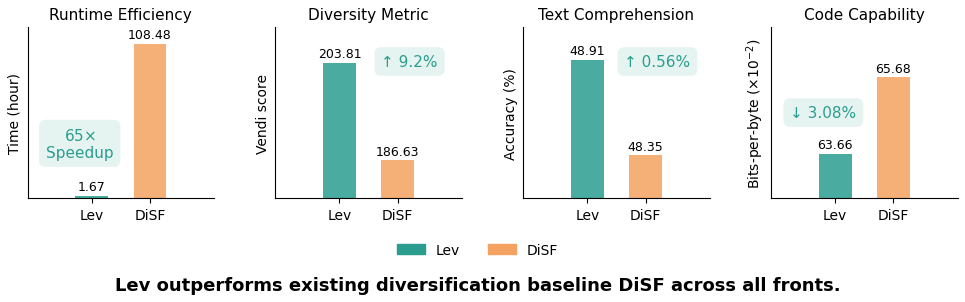
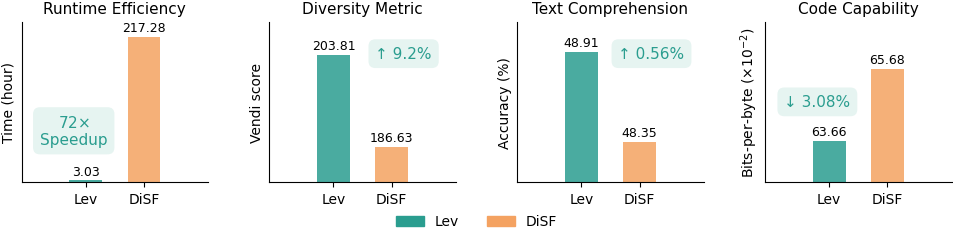
Update results documentation and main figure

diff --git a/README.md b/README.md
@@ -1,6 +1,6 @@
 # Towards Scalable Data Diversification for Language Model Pretraining via Leverage Score Sampling
 
-<h4> |<a href="https://arxiv.org/abs/1111.11111"> 📑 Paper </a> |
+<!-- <h4> |<a href="https://arxiv.org/abs/1111.11111"> 📑 Paper </a> | -->
 
 ## Overview
 
@@ -13,10 +13,10 @@ We propose **Leverage Score Sampling (Lev)**, a scalable scheme that employs lev
 <img src="figures/geointuition7.png" width="65%">
 
 ### Main Results
-- Lev shows superior computational efficiency, enabling scalable diversified sampling. It improves dataset diversity (measured by Vendi score) by 9.2\% while achieving a **65$\times$ runtime speedup** compared to the strong *diversification baseline DiSF*. 
+- Lev shows superior computational efficiency, enabling scalable diversified sampling. It improves dataset diversity (measured by Vendi score) by 9.2\% while achieving a **72$\times$ runtime speedup** compared to the strong *diversification baseline DiSF*. 
 - Moreover, it outperforms existing diversity-based selection methods on downstream performance of the pretrained models. On CommonCrawl (CC) web data subset selection, it improves average accuracy across seven downstream tasks by up to 1.31% over existing baselines. 
 - Crucially, Lev requires no curated quality references, making it uniquely effective for domains where defining quality is inherently ambiguous, e.g., code data: on StarCoderData, it reduces model's bits-per-byte by 3.08% over DiSF. 
-- Using 8 RTX 5090 GPUs that process 8 files in parallel, **selecting 40%** data from **a single CommonCrawl dump (~200B token)** with a step size of 2 requires only about 1.67 hours compared to 108.48 hours of DiSF, confirming a 65$\times$ speedup. With a step size of 8, **Lev consumes only about 35 min** compared to 26.88h of DiSF.
+- Using 8 RTX 5090 GPUs that process 8 files in parallel, **selecting 40%** data from **a single CommonCrawl dump (~200B token)** with a step size of 2 requires only about 1.67 hours compared to 108.48 hours of DiSF, confirming a 72$\times$ speedup. With a step size of 8, **Lev consumes only about 35 min** compared to 26.88h of DiSF.
 
 <img src="figures/mainfigure.png" width="80%">
 
